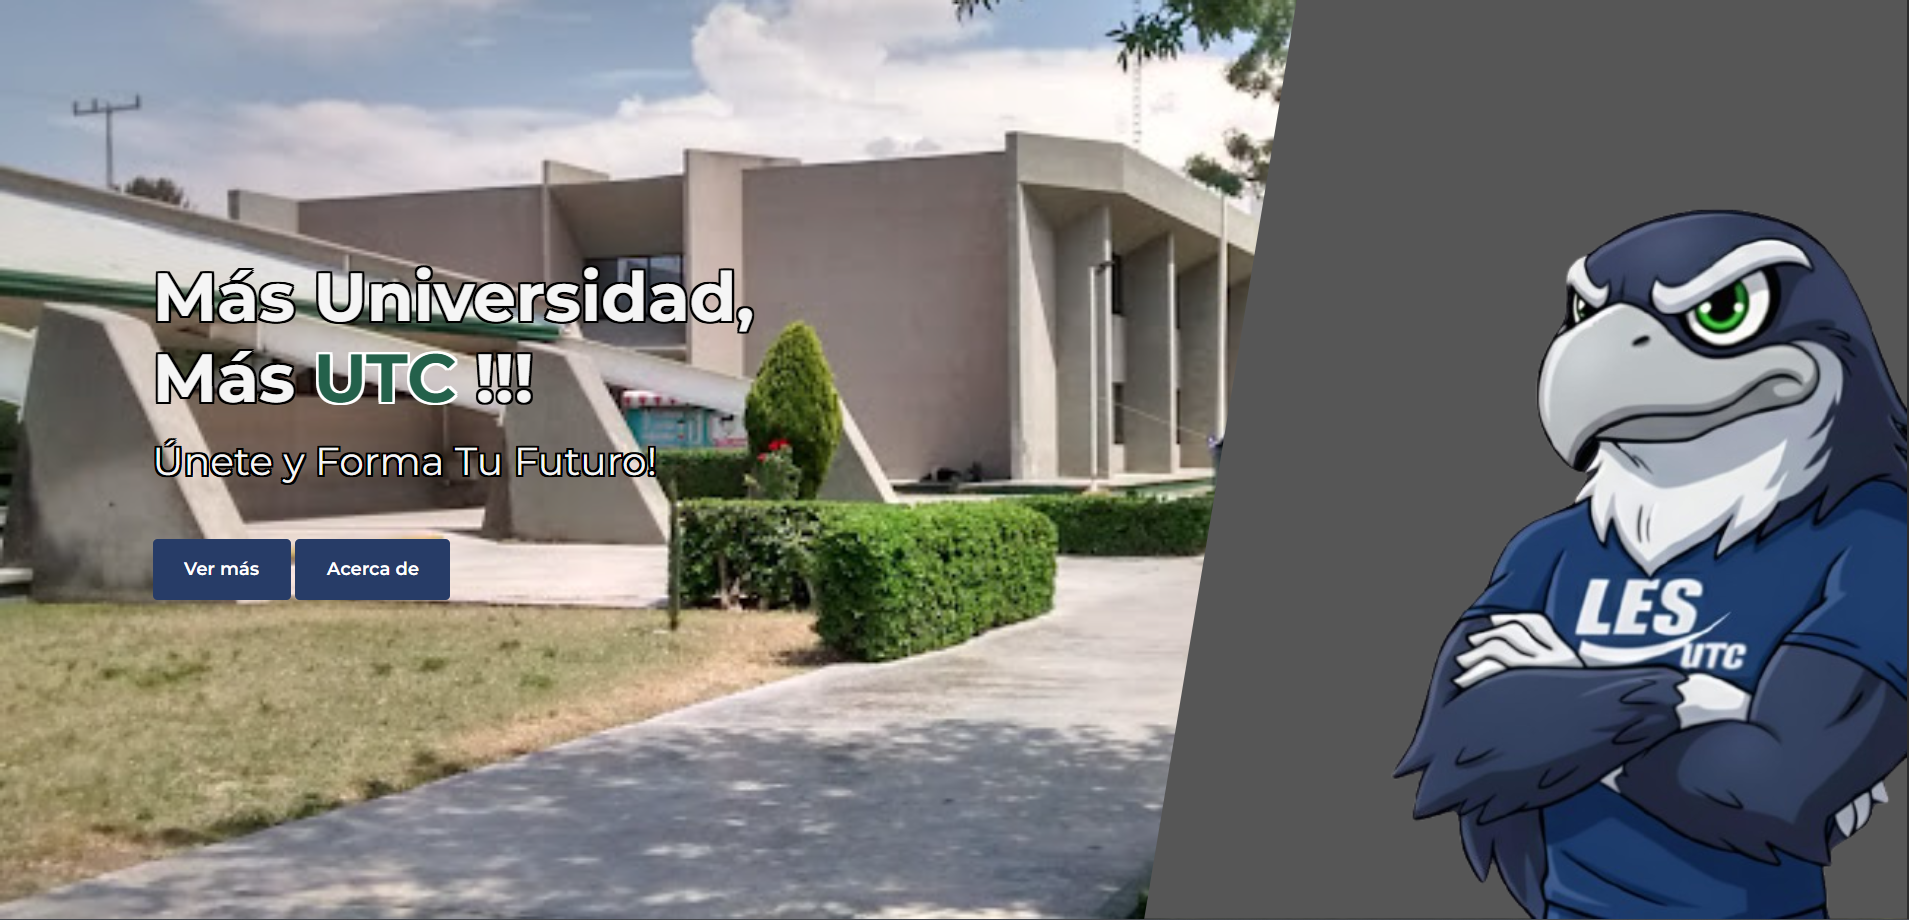
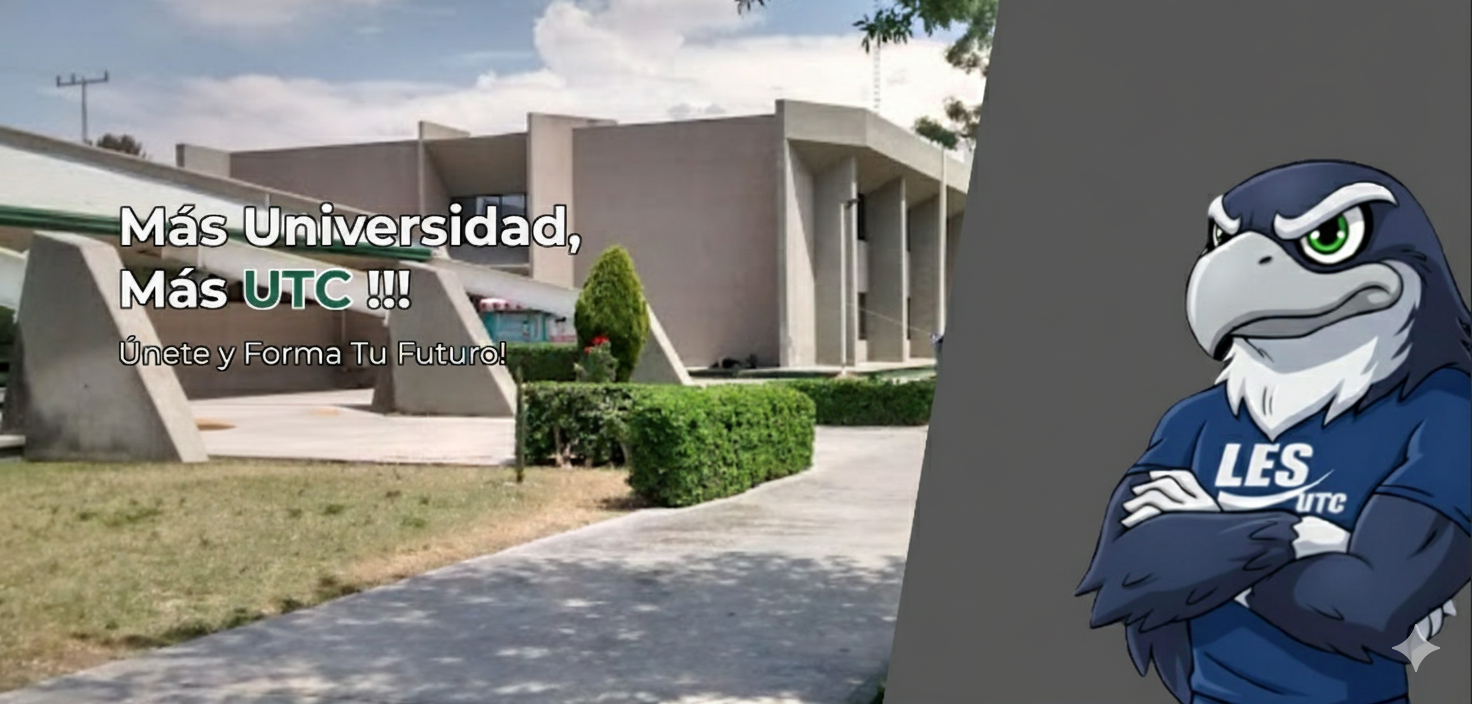
cambios de index diseño 0.3v

diff --git a/cross_asistent/templates/index.html b/cross_asistent/templates/index.html
@@ -28,15 +28,28 @@
                                     <h2>
                                         {% autoescape off %} {{ banner.titulo }} {% endautoescape %}
                                     </h2>
-                                    <!-- <div class="div-dec"></div> -->
                                     <p class="slider-content_desc">{{ banner.descripcion }}</p>
                                     {% endif %}
+
+                                    <!-- Botones del banner -->
                                     <div class="buttons">
                                         {% if banner.redirigir %}
-                                        <a href="{{banner.redirigir}}" target="_blank" rel="noopener noreferrer" class="btn_slide btn btn_detail btn-lg">
+                                        <a href="{{banner.redirigir}}" target="_blank" rel="noopener noreferrer"
+                                        class="btn_slide btn btn_detail btn-lg">
                                             Ver más <i class="fa-solid fa-up-right-from-square ms-1"></i>
                                         </a>
                                         {% endif %}
+                                    </div>
+                                    <div class="buttons mt-5 custom-banner-buttons">
+                                        <a href="https://utc.edu.mx" target="_blank" rel="noopener noreferrer"
+                                        class="btn_slide btn btn_detail btn-lg custom-btn-banner">
+                                            Ver más <i class="fa-solid fa-up-right-from-square ms-1"></i>
+                                        </a>
+
+                                        <a href="{% url 'about' %}"
+                                        class="btn_slide btn btn_detail btn-lg custom-btn-banner {% if active_page == 'about' %}active{% endif %}">
+                                            Acerca de
+                                        </a>
                                     </div>
                                 </div>
                             </div>
@@ -130,6 +143,5 @@
 {% endblock %}
 
 {% block scripts_end %}
-<script src="{% static 'js/swiper.min.js' %}"></script>
 <script src="{% static 'js/settings_chatbot.js' %}"></script>
 {% endblock %}

diff --git a/cross_asistent/static/css/styles.css b/cross_asistent/static/css/styles.css
@@ -169,6 +169,29 @@ body {
     font-family: 'Montserrat', sans-serif;
 }
 
+/* Más separación hacia abajo */
+.custom-banner-buttons {
+    margin-top: 120px !important;
+    margin-left: -40px !important;
+}
+
+/* Color solicitado */
+.custom-btn-banner {
+    background-color: #273c67 !important;
+    border-color: #273c67 !important;
+    color: #fff !important;
+    padding: 12px 28px;
+    border-radius: 8px;
+    font-weight: 600;
+    transition: 0.3s ease;
+}
+
+/* Hover más oscuro */
+.custom-btn-banner:hover {
+    background-color: #1e3053 !important;
+    border-color: #1e3053 !important;
+}
+
 /* NAVBAR */
 nav {
     width: 100%;
